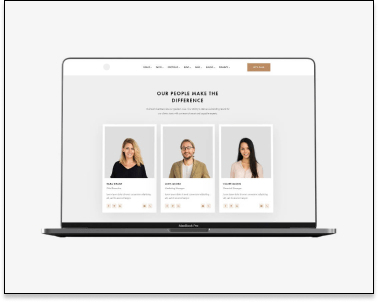
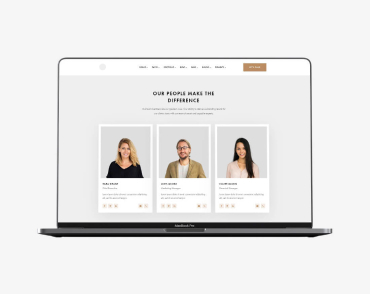
Вносит позиционирование в index.html и portfolio.html
Пытаюсь в portfolio.html выставить элементы projects в строку: по 3 карточки на 1 строку.

diff --git a/css/styles.css b/css/styles.css
@@ -58,6 +58,7 @@ h2 {
   line-height: 1.16;
   text-align: center;
   letter-spacing: 0.03em;
+  padding-top: 0;
 }
 
 .section-title {
@@ -69,6 +70,7 @@ img {
   height: auto;
   display: block;
 }
+
 /* top line */
 .logo {
   color: #000000;
@@ -84,12 +86,12 @@ img {
 .logo-color {
   color: var(--accent-color);
 }
-
 .logo {
   margin-right: 93px;
   margin-top: 24px;
   margin-bottom: 25px;
 }
+
 /* top line Navigation */
 
 header {
@@ -100,12 +102,11 @@ header {
 .site-nav-list {
   color: var(--primary-text-color);
   width: 49px;
-  font-family: "Roboto", sans-serif;
+  font-family: var(--primery-font);
   font-weight: 500;
   font-size: 14px;
   line-height: 1.17;
   letter-spacing: 0.02em;
-  text-shadow: 0px 4px 4px rgba(0, 0, 0, 0.25);
 }
 .site-nav-top:not(:last-child) {
   margin-right: 50px;
@@ -161,12 +162,10 @@ header {
   text-align: center;
   top: 80px;
   padding-top: 200px;
-  padding-right: 452px;
-  padding-left: 452px;
 }
 .hero-title {
   color: var(--second-accent-color);
-  font-family: "Roboto", sans-serif;
+  font-family: var(--primery-font);
   font-weight: 900;
   font-size: 44px;
   letter-spacing: 0.06em;
@@ -176,22 +175,23 @@ header {
   margin-bottom: 30px;
 }
 .hero-title {
-  display: inline-block;
+  display: block;
   text-align: center;
 }
-
 h1 {
   width: 696px;
+  margin-right: 452px;
+  margin-left: 452px;
 }
 .container-hero-title {
-  display: inline-block;
+  display: block;
   text-align: center;
 }
 /* button */
 .button-service {
   color: var(--second-accent-color);
   background-color: var(--accent-color);
-  font-family: "Roboto", sans-serif;
+  font-family: var(--primery-font);
   font-style: bold;
   font-size: 16px;
   line-height: 1.87;
@@ -205,19 +205,26 @@ h1 {
   width: 200px;
   height: 50px;
   margin-right: 700px;
+  margin-left: 700px;
   margin-bottom: 294px;
 }
 .button-service {
   display: inline-block;
   text-align: center;
 }
-
 .button-service:hover,
 .button-service:focus {
   background-color: #188ce8;
 }
 
 /* section two. features */
+.features {
+  padding-top: 0;
+  padding-bottom: 0;
+}
+.qualities {
+  margin-top: 0;
+}
 .feature-list {
   display: flex;
   justify-content: center;
@@ -225,7 +232,6 @@ h1 {
 .feature-nav:not(:last-child) {
   margin-right: 30px;
 }
-
 .feature-list .title {
   color: var(--primary-text-color);
   text-transform: uppercase;
@@ -236,6 +242,7 @@ h1 {
 .paragraph:not(:last-child) {
   margin-right: 30px;
 }
+
 /* section three */
 .technologies {
   padding-top: 0;
@@ -245,7 +252,6 @@ h1 {
   height: auto;
   display: flex;
   box-shadow: 0px 4px 4px rgba(0, 0, 0, 0.25);
-  margin-top: 50px;
 }
 .imagine-nav:not(:last-child) {
   margin-right: 30px;
@@ -254,9 +260,11 @@ h1 {
 /* section four. our team */
 .team-background {
   background-color: var(--grey-background-color);
+  padding-top: 0;
 }
 .team-list {
   display: flex;
+  margin-top: 50px;
 }
 .rang:not(:last-child) {
   margin-right: 30px;
@@ -281,7 +289,6 @@ h1 {
   text-align: center;
   letter-spacing: 0.03em;
 }
-
 .team-list .decor {
   background-color: var(--second-accent-color);
   width: 270px;
@@ -289,6 +296,7 @@ h1 {
     0px 2px 1px rgba(0, 0, 0, 0.2);
   border-radius: 0px 0px 4px 4px;
   display: block;
+  margin-top: 0;
 }
 .team-description {
   text-align: center;
@@ -317,6 +325,7 @@ h1 {
   padding-top: 60px;
   padding-bottom: 60px;
 }
+
 address {
   font-style: normal;
 }
@@ -336,13 +345,17 @@ address {
   color: rgba(255, 255, 255, 0.6);
   margin-top: 9px;
 }
+.data .tel {
+  color: rgba(255, 255, 255, 0.6);
+  margin-top: 9px;
+}
 /* Стили для portfolio.html */
 /* button section */
 .filter {
   background-color: var(--second-accent-color);
   display: flex;
   justify-content: center;
-  margin-top: 94px;
+  margin-top: 0;
   margin-bottom: 34px;
 }
 
@@ -352,6 +365,11 @@ address {
 .button-primery {
   color: var(--second-accent-color);
   background-color: var(--accent-color);
+  font-weight: 500;
+  font-size: 16px;
+  line-height: 1.62;
+  text-align: center;
+  letter-spacing: 0.03em;
   cursor: pointer;
   border-radius: 4px;
   padding: 6px 22px;
@@ -364,6 +382,11 @@ address {
 .button-secondary {
   color: var(--primary-text-color);
   background-color: var(--grey-background-color);
+  font-weight: 500;
+  font-size: 16px;
+  line-height: 1.62;
+  text-align: center;
+  letter-spacing: 0.03em;
   cursor: default;
   border-radius: 4px;
   padding: 6px 22px;
@@ -372,9 +395,6 @@ address {
 /* projects-list */
 .projects-list {
   background-color: var(--second-accent-color);
-  border: 1px solid #eeeeee;
-  filter: drop-shadow(0px 4px 4px rgba(0, 0, 0, 0.25));
-  width: 1170px;
   margin: 34px 30px 30px 30px;
 }
 .projects-list {
@@ -384,33 +404,34 @@ address {
   margin-top: -30px;
 }
 .decor {
-  margin-left: 30px;
   margin-top: 30px;
+  margin-left: 30px;
 }
 .projects-list .title {
   color: var(--primary-text-color);
-  width: 322px;
   font-family: var(--primery-font);
   font-style: normal;
   font-weight: bold;
   font-size: 18px;
   line-height: 2;
   letter-spacing: 0.06em;
+  margin-top: 20px;
+  margin-left: 24px;
 }
 .projects-list .paragraph {
   color: var(--secondary-text-color);
-  width: 322px;
   font-style: normal;
   font-weight: normal;
   font-size: 16px;
   line-height: 1.87;
   letter-spacing: 0.03em;
+  margin-top: 4px;
+  margin-left: 24px;
+  margin-bottom: 20px;
 }
 
 .projects-list .decor {
-  background-color: var(--second-accent-color);
-  width: 370px;
-  border: 1px;
+  background-color: var(--primery-background-color);
+  border: 1px solid #eeeeee;
   box-sizing: border-box;
-  box-shadow: 0px 4px 4px rgba(0, 0, 0, 0.25);
 }

diff --git a/index.html b/index.html
@@ -11,7 +11,7 @@
     <!-- Стили -->
     <link rel="stylesheet" href="./css/styles.css">
     <!-- Шрифты -->
-    <link href="https://fonts.googleapis.com/css2?family=Roboto:wght@400;700&display=swap" rel="stylesheet">
+    <link href="https://fonts.googleapis.com/css2?family=Roboto:wght@400;500;700;900&display=swap" rel="stylesheet">
     <link href="https://fonts.googleapis.com/css2?family=Raleway:wght@400;700&family=Roboto:wght@400;700&display=swap" rel="stylesheet">
 </head>
 <!--body and header section-->
@@ -40,16 +40,16 @@
         <!--section one. Hero. effective decissions-->
         <section class="hero">
             <div class="container container-hero" style="text-align: center;">
-                <span class="container-hero-title" style="display: inline-block;" style="text-align: center;"><h1 class="hero-title">ЭФФЕКТИВНЫЕ РЕШЕНИЯ ДЛЯ ВАШЕГО БИЗНЕСА</h1></span>
+                <span class="container-hero-title" style="display: block;" style="text-align: center;"><h1 class="hero-title">ЭФФЕКТИВНЫЕ РЕШЕНИЯ ДЛЯ ВАШЕГО БИЗНЕСА</h1></span>
             <button type="button" class="button-service" style="text-align: center;">
                 <span style="display: inline-block;" style="text-align: center;">Заказать услугу</span>
             </button>
             </div>
         </section>
         <!--section two. list of features-->
-        <section class="section">
+        <section class="section features">
             <div class="container">
-                <h2 class="section-title"></h2>
+                <h2 class="section-title qualities"></h2>
                 <ul class="feature-list" style="display: flex; justify-content: center;">
                     <li class="feature-nav">
                         <h3 class="title">ВНИМАНИЕ К ДЕТАЛЯМ</h3>
@@ -131,11 +131,9 @@
             <span class="logo-color">Web</span>Studio</a>
         <address class="adress list">
             <ul>
-                <li>
-                    <p class="residence">г. Киев, пр-т Леси Украинки, 26</p>
-                </li>
+                <li><p class="residence">г. Киев, пр-т Леси Украинки, 26</p></li>
                 <li><a class="data" href="mailto:info@example.com">info@example.com</a></li>
-                <li><a class="data" href="tel:+380991111111">+38 099 111 11 11</a></li>
+                <li><a class="data tel" href="tel:+380991111111">+38 099 111 11 11</a></li>
             </ul>
         </address>
     </div>

diff --git a/portfolio.html b/portfolio.html
@@ -11,7 +11,7 @@
     <!-- Стили -->
     <link rel="stylesheet" href="./css/styles.css">
     <!-- Шрифты -->
-    <link href="https://fonts.googleapis.com/css2?family=Roboto:wght@400;700&display=swap" rel="stylesheet">
+    <link href="https://fonts.googleapis.com/css2?family=Roboto:wght@400;500;700;900&display=swap" rel="stylesheet">
     <link href="https://fonts.googleapis.com/css2?family=Raleway:wght@400;700&family=Roboto:wght@400;700&display=swap" rel="stylesheet">
 </head>
 <!--body and header section-->
@@ -50,7 +50,7 @@
                 </ul>
         <!--projects section-->
                 <h2></h2> 
-                <ul class="projects-list" style="display: flex;">
+                <ul class="projects-list" style="display: flex; flex-wrap: wrap;">
                     <li class="decor">
                         <img 
                         src="./img/project-1.jpg" 
@@ -139,15 +139,14 @@
        
     <!--footer section-->
     <footer class="footer">
-        <div class="container">
-            <a href="" class="footer-logo"><span class="logo-color">Web</span>Studio</a>
+        <div class="container container-footer">
+            <a href="./portfolio.html" class="footer-logo">
+                <span class="logo-color">Web</span>Studio</a>
             <address class="adress list">
                 <ul>
-                    <li>
-                        <p class="residence">г. Киев, пр-т Леси Украинки, 26</p>
-                    </li>
+                    <li><p class="residence">г. Киев, пр-т Леси Украинки, 26</p></li>
                     <li><a class="data" href="mailto:info@example.com">info@example.com</a></li>
-                    <li><a class="data" href="tel:+380991111111">+38 099 111 11 11</a></li>
+                    <li><a class="data tel" href="tel:+380991111111">+38 099 111 11 11</a></li>
                 </ul>
             </address>
             </ul>
